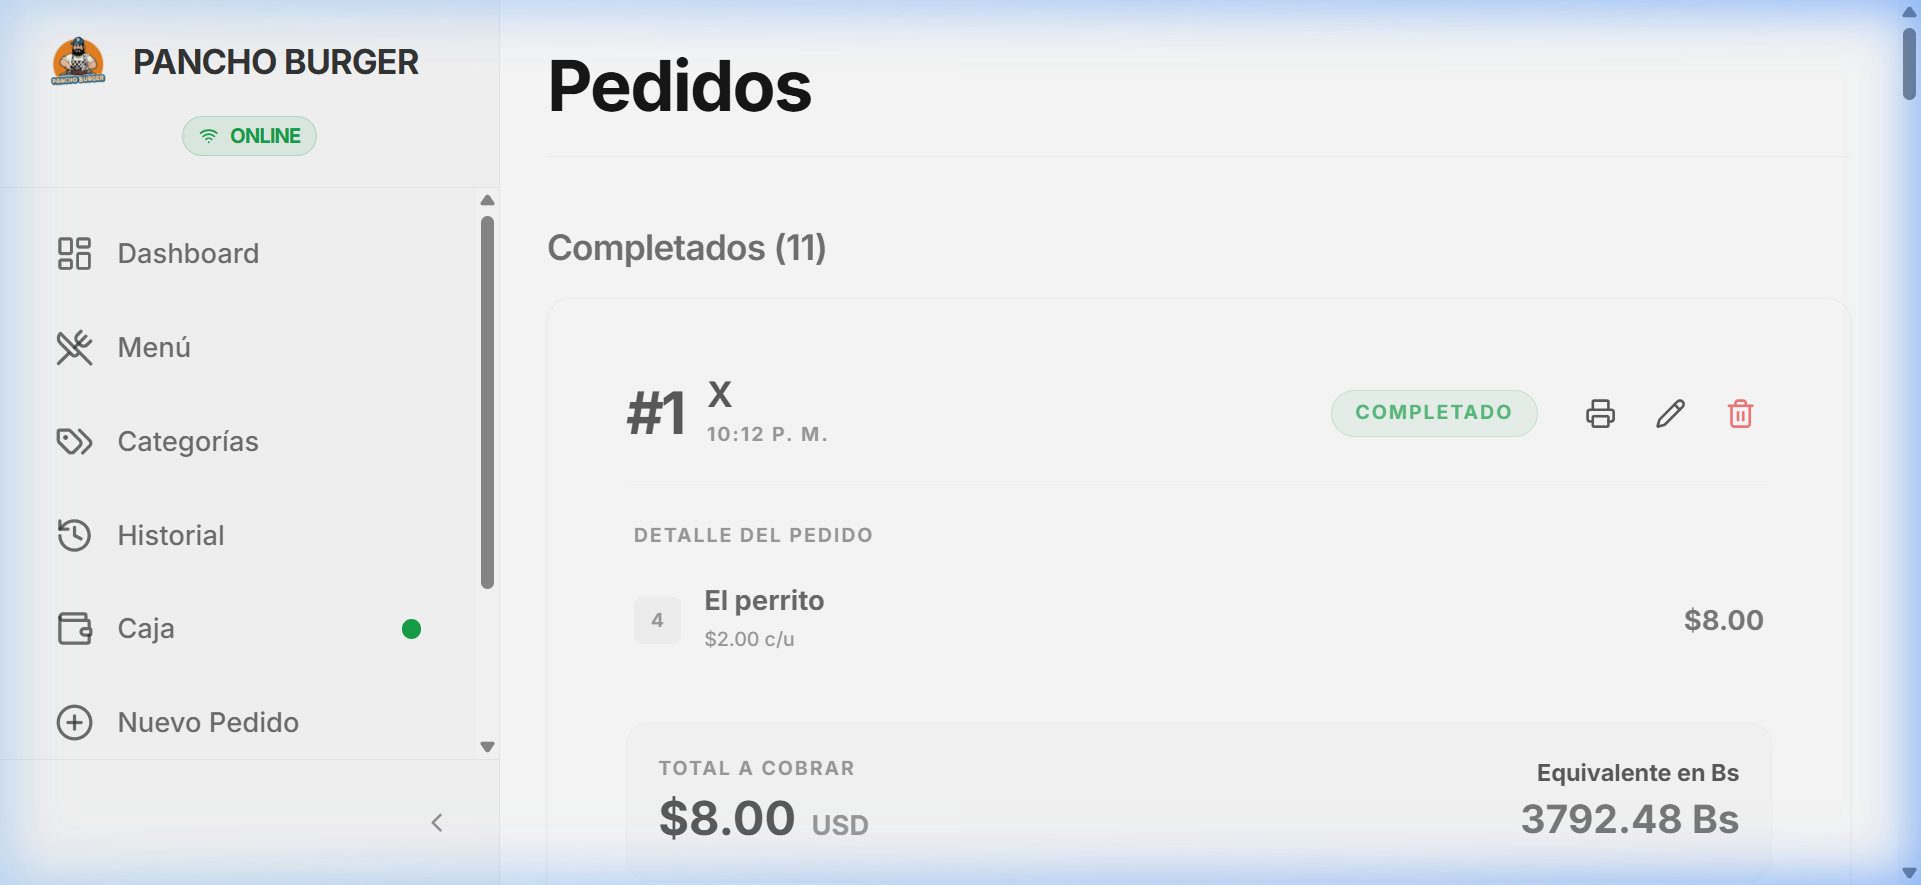
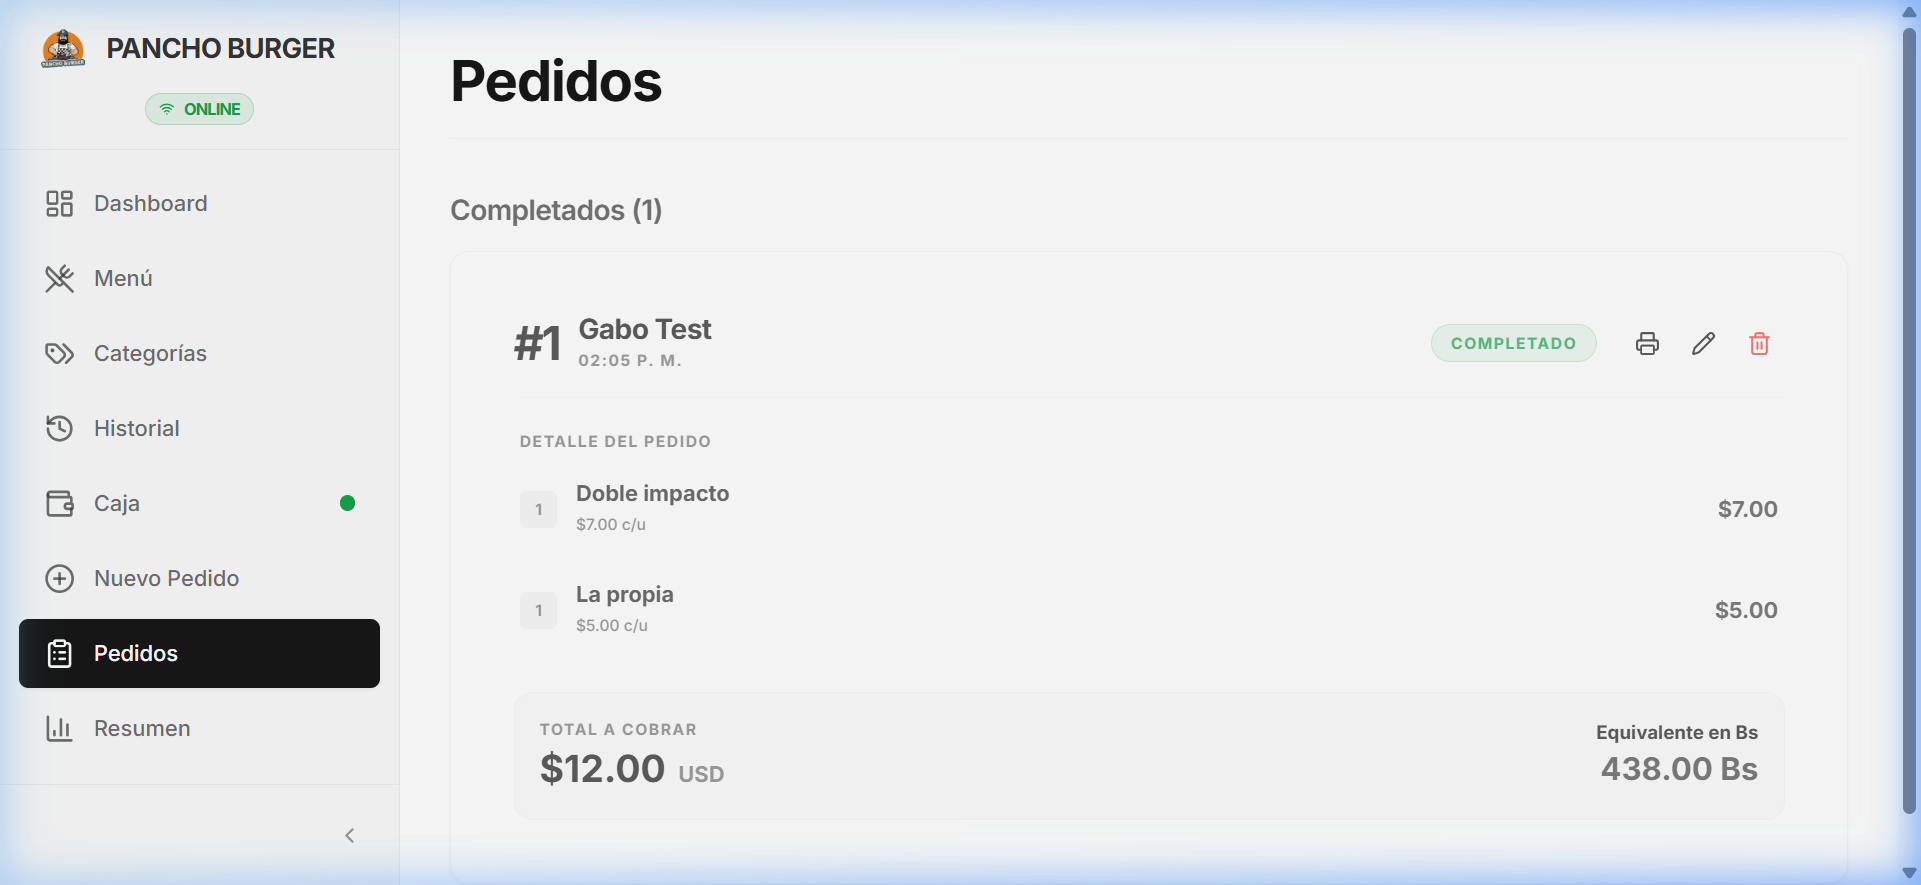
Actualizar capturas de pantalla de la aplicación en español para el README

diff --git a/README.md b/README.md
@@ -1,4 +1,4 @@
-# 🍔 Pancho Burger POS - Quick Bite Ops
+# 🍔 Pancho Burger POS
 
 **Pancho Burger POS** es un sistema de Punto de Venta (POS) moderno y de alto rendimiento, diseñado para la eficiencia en entornos de comida rápida. Cuenta con un robusto motor de doble moneda (USD/Bs), sincronización offline-first y un panel administrativo premium.
 
@@ -15,13 +15,11 @@
 
 ## 📸 Capturas de Pantalla
 
-````carousel
-![Catálogo](public/assets/screenshots/menu.png)
-<!-- slide -->
-![Pantalla de Pedido](public/assets/screenshots/order.png)
-<!-- slide -->
-![Historial de Pedidos](public/assets/screenshots/history.png)
-````
+| 📋 Catálogo de Productos | 🛒 Pantalla de Pedido | 🕒 Historial y Detalles |
+| :---: | :---: | :---: |
+| ![Catálogo](public/assets/screenshots/menu.png) | ![Pedido](public/assets/screenshots/order.png) | ![Historial](public/assets/screenshots/history.png) |
+
+---
 
 ## 🛠 Tecnologías Utilizadas
 
